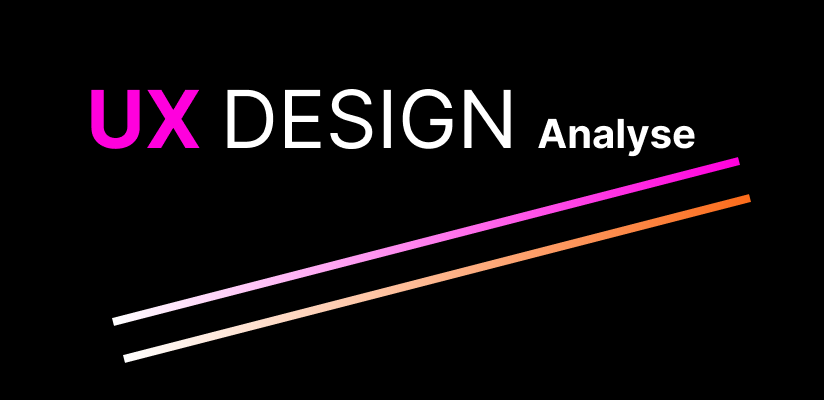
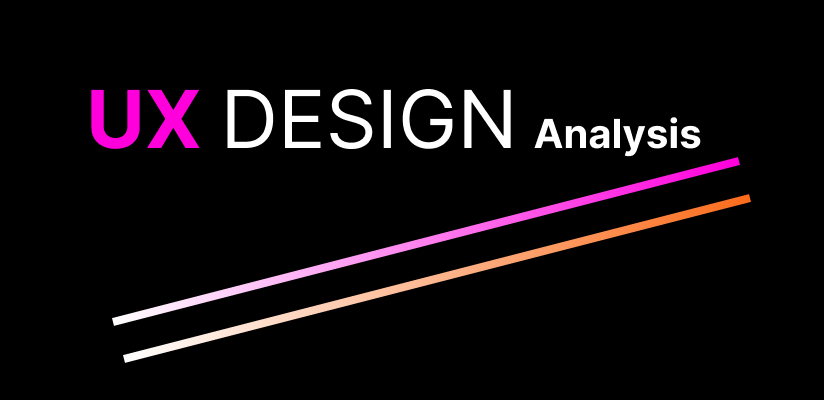
update battlefield

Changed region(s): [[0.6371, 0.3, 0.8495, 0.39]]

diff --git a/ganeshawebsite/src/app/ux-case-ganesha-battlefield/ux-case-ganesha-battlefield.component.ts b/ganeshawebsite/src/app/ux-case-ganesha-battlefield/ux-case-ganesha-battlefield.component.ts
@@ -21,7 +21,7 @@ export class UxCaseGaneshaBattlefieldComponent {
   selectedMockup: any = null;
 
   // lien vers ton jeu — à remplacer si besoin
-  gameLink = 'https://www.ganopolydeal.ganesha.ovh/';
+  gameLink = 'https://www.battleship.ganesha.ovh/';
 
   mockups = [
     {
@@ -47,6 +47,12 @@ export class UxCaseGaneshaBattlefieldComponent {
       full:  'assets/img/ux/battlefield/battlefield_04.png',
       alt:   'UX_CASE_GANESHA_BATTLEFIELD.mockups.alt4',
       label: 'UX_CASE_GANESHA_BATTLEFIELD.mockups.alt4'
+    },
+    {
+      thumb: 'assets/img/ux/battlefield/battlefield_05.png',
+      full:  'assets/img/ux/battlefield/battlefield_05.png',
+      alt:   'UX_CASE_GANESHA_BATTLEFIELD.mockups.alt5',
+      label: 'UX_CASE_GANESHA_BATTLEFIELD.mockups.alt5'
     }
   ];
 

diff --git a/ganeshawebsite/src/app/ux-case-ganesha-sudoku/ux-case-ganesha-sudoku.component.html b/ganeshawebsite/src/app/ux-case-ganesha-sudoku/ux-case-ganesha-sudoku.component.html
@@ -40,7 +40,7 @@
             </div>
         </div>
         <div class="d-flex align-items-center mb-4">
-            <a role="button" href="https://www.ganopolydeal.ganesha.ovh/" target="_blank " class="ms-auto btn btn-lg  btn-danger" rel="noopener noreferrer "> {{ 'GAMES.play' | translate }} </a>
+            <a role="button" href="https://sudoku.ganesha.ovh/" target="_blank " class="ms-auto btn btn-lg  btn-danger" rel="noopener noreferrer "> {{ 'GAMES.play' | translate }} </a>
         </div>
 
 
